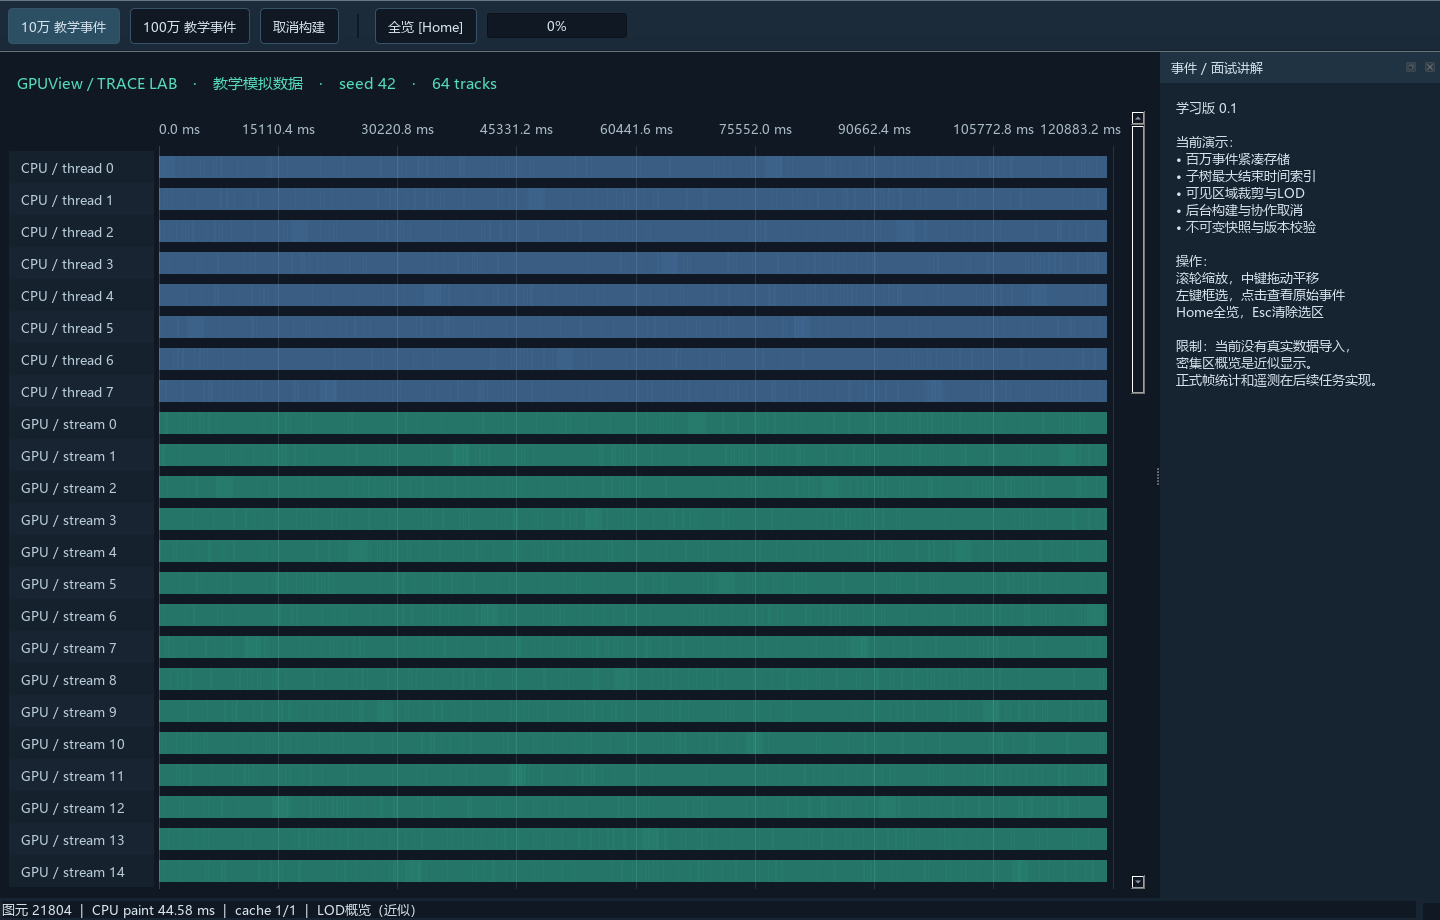
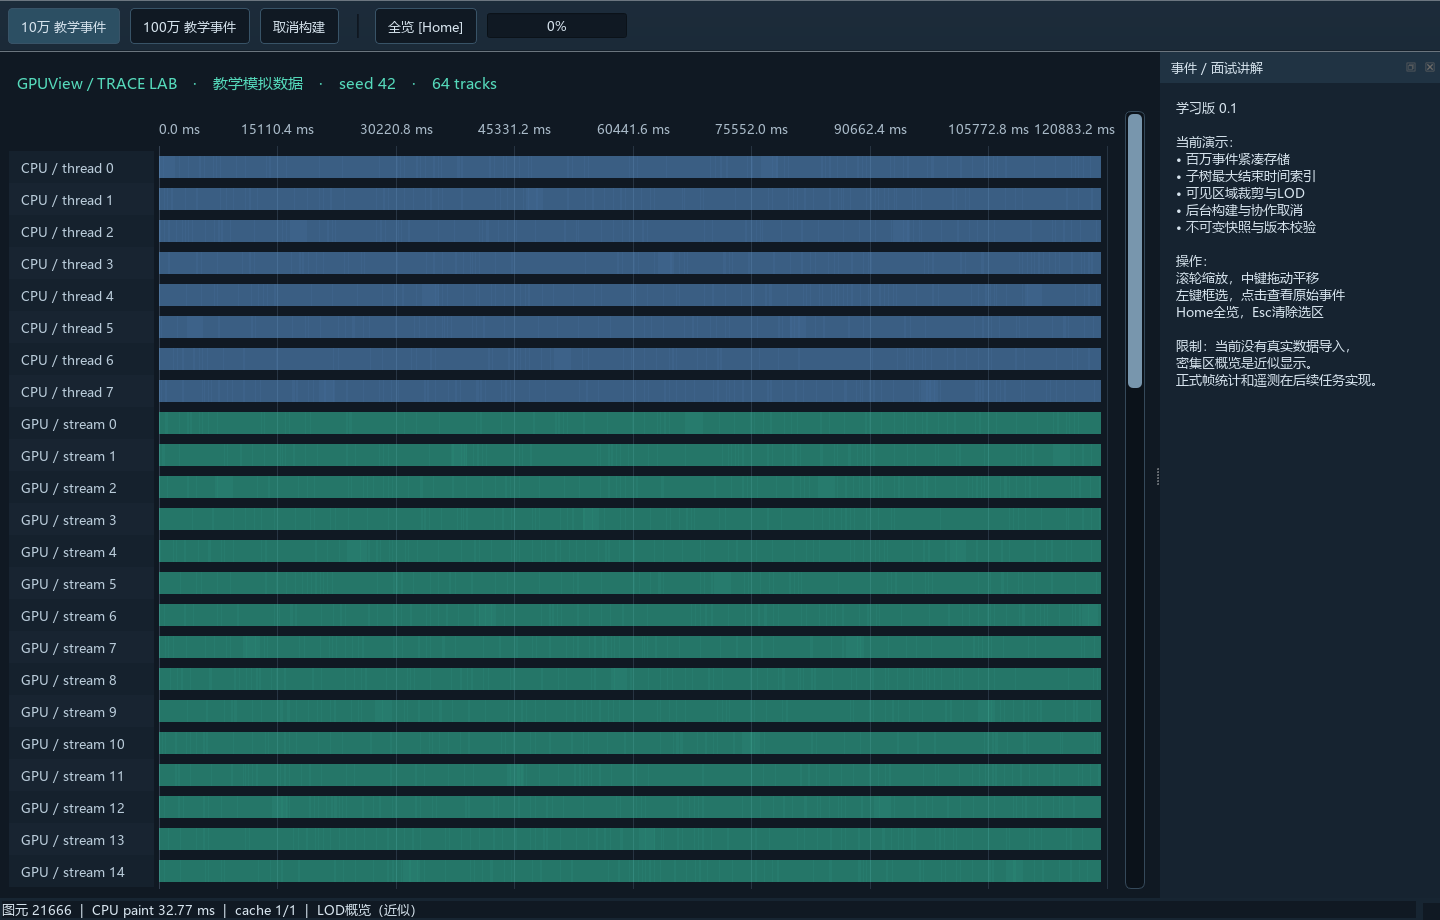
Improve track scrollbar contrast and interaction styling

diff --git a/src/ui_widgets/main_window.cpp b/src/ui_widgets/main_window.cpp
@@ -37,6 +37,14 @@ MainWindow::MainWindow(QWidget* parent) : QMainWindow(parent) {
     trackLayout->addWidget(timeline_, 1);
     auto* scroll = new QScrollBar(Qt::Vertical);
     scroll->setObjectName(QStringLiteral("trackScrollBar"));
+    // 显式区分滑槽和滑块，避免全局深色背景覆盖原生样式后只剩轮廓。
+    scroll->setStyleSheet(QStringLiteral(
+        "QScrollBar:vertical{background:#0b121a;width:20px;margin:0;border:1px solid #35495a;border-radius:6px;}"
+        "QScrollBar::handle:vertical{background:#7896ad;min-height:40px;margin:2px;border-radius:5px;}"
+        "QScrollBar::handle:vertical:hover{background:#a5c9e0;}"
+        "QScrollBar::handle:vertical:pressed{background:#55dabb;}"
+        "QScrollBar::add-line:vertical,QScrollBar::sub-line:vertical{height:0;border:0;background:transparent;}"
+        "QScrollBar::add-page:vertical,QScrollBar::sub-page:vertical{background:transparent;}"));
     scroll->setRange(0, 0);
     scroll->setToolTip(QStringLiteral("切换首个可见轨道"));
     trackLayout->addWidget(scroll);

diff --git a/docs/07-interview/CASEBOOK.md b/docs/07-interview/CASEBOOK.md
@@ -225,6 +225,8 @@ if (naiveCount != indexedCount) {
 
 ### 轨道滚动与可见区如何保持一致（Q01/Q03）
 
+视觉反馈补充：全局深色QWidget样式下，默认滚动条滑块和滑槽难以区分。在MainWindow中仅为轨道滚动条设置完整子控件样式，以深色滑槽、浅色实心滑块及悬停/按下颜色区分可拖动区域；用实际应用截图检查，而非仅以编译通过判断可用性。
+
 原实现使用底部横向滑条且固定范围0–63，末页可以只剩一条轨道。现在把竖向滚动条放在时间轴和事件栏之间。[TimelineWidget::syncTrackScroll](../../src/ui_widgets/timeline_widget.cpp) 使用 `maximum = max(0, totalTracks - visibleTrackCount())` 限制首条轨道；窗口变高或数据变化时重新夹取当前位置。绘制使用同一可见行数，避免控件范围和实际绘制不一致。
 
 视图只发出位置、上限和页步长，MainWindow绑定QScrollBar，并用QSignalBlocker阻断范围更新产生的反馈。视图不依赖滚动条控件，便于后续Quick复用思路。[trackScrollFollowsViewport](../../tests/ui/ui_tests.cpp) 验证左右位置、滚动到底后增高窗口以及清空快照。当前是整轨道滚动，尚未实现像素级平滑滚动。

diff --git a/README.md b/README.md
@@ -20,7 +20,7 @@
 - 紧凑事件结构与每轨道区间索引，对照朴素扫描验证正确性。
 - QWidget/QPainter自绘、轨道裁剪、密集视口概览LOD、精确点击拾取。
 - 滚轮以鼠标为锚点缩放、中键平移、左键框选、Home全览、Esc清除。
-- 轨道竖向滚动条位于时间轴右侧、事件侧栏左侧；范围和步长随可见轨道数调整。
+- 轨道竖向滚动条位于时间轴右侧、事件侧栏左侧；深色滑槽与浅色加宽滑块区分，悬停/拖动高亮，范围和步长随可见轨道数调整。
 - 后台生成/索引，原子进度邮箱、100ms进度轮询、单个待执行请求合并。
 - `shared_ptr<const TraceStore>`快照、请求代次检查、协作取消和退出等待。
 - 有界单项几何缓存，数据/版本/视口/宽度/轨道变化失效。

diff --git a/docs/05-quality/TEST_RESULTS.md b/docs/05-quality/TEST_RESULTS.md
@@ -2,6 +2,8 @@
 
 ## 2026-09-18 轨道滚动条调整
 
+样式跟进：加宽并设置滑槽/滑块及交互状态颜色后，Debug重新构建，32个实际用例仍全部通过；更新离屏应用截图并目视确认默认滑块与滑槽清晰分离。悬停/按下颜色未单独截图验证。
+
 Debug构建成功，2个CTest套件通过，32个实际用例（Core 27、UI 5）全部通过。新增 `trackScrollFollowsViewport` 验证竖向方向、位于时间轴与事件栏之间、末页随窗口增高收紧范围，以及清空快照后回到零范围。本轮未重跑Release。
 
 2026-09-17，Qt6.8.3/MSVC2022 Release，Windows11。

diff --git a/docs/00-review/STATUS.md b/docs/00-review/STATUS.md
@@ -4,6 +4,8 @@
 
 ## 本次完成
 
+滚动条视觉调整：20px宽、深色滑槽、浅蓝灰实心滑块，悬停更亮、按下青绿色；移除细小箭头按钮，保留拖动、点击滑槽翻页和滚轮操作。样式限定在轨道滚动条。
+
 轨道滚动条移至时间轴右侧、事件侧栏左侧，改为竖向；绘制与滚动共用可见行数，调整窗口高度时自动收紧末页范围。新增布局位置、末页缩放与清空数据的交互回归测试。
 
 本次Debug构建及32个实际用例全部通过；本次未重跑Release。
